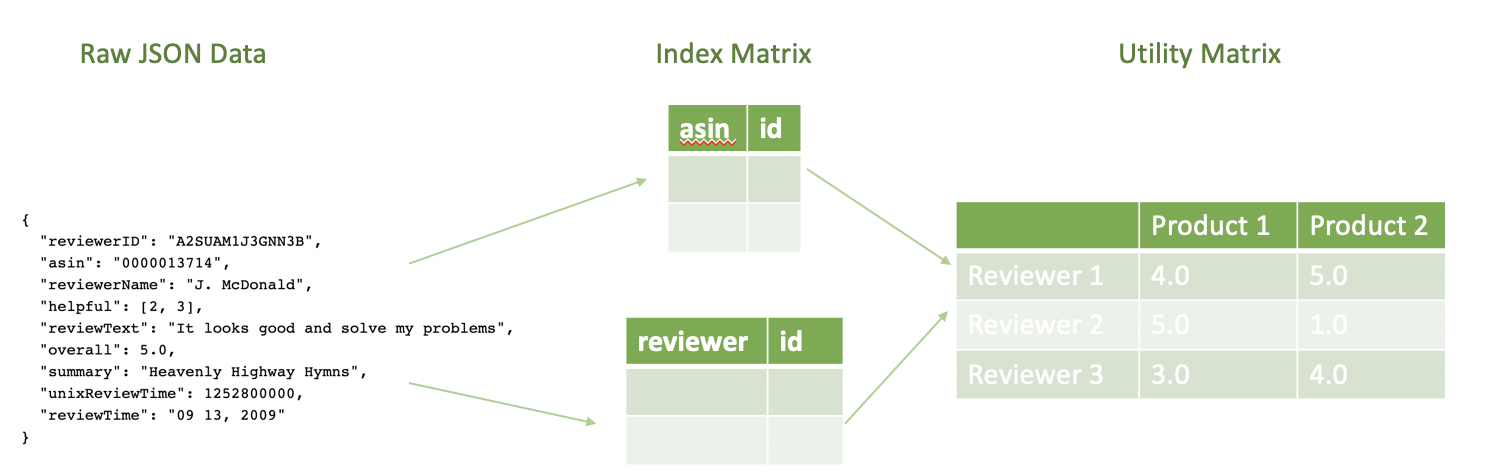
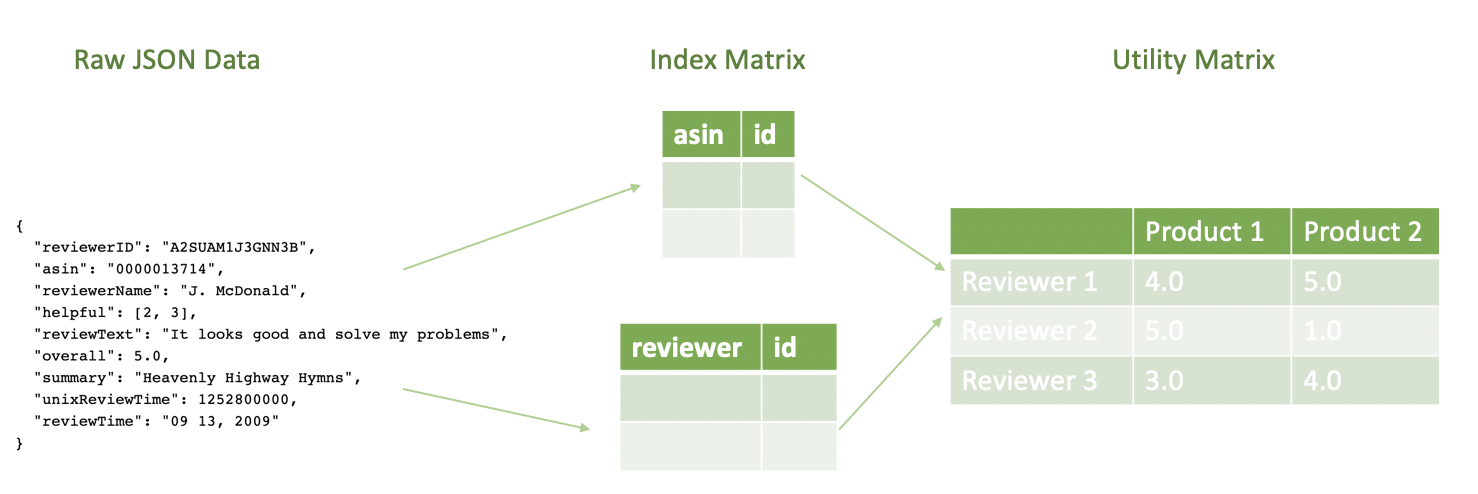
added images and system section

diff --git a/index.md b/index.md
@@ -143,7 +143,7 @@ In order to increase the performance, all models are running on a multi-node clu
 
 ### Overall Programming Model Flowchart
 To summarize, the overall programming model is as follows:
-![alt text](./fig/datapreprocessing_spark.png)
+![alt text](./fig/overall_model.png)
 
 
 ## Platform and Infrastructure
